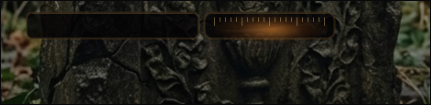
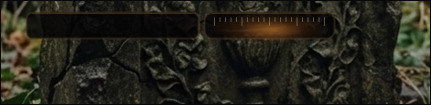
Ship the matching wallpaper, and show the pair in use
A skin can never be cut to the shape of its artwork - the window is always a
rectangle and alpha composites to white. The way round it is not technical: make
the ground around the stone match the desktop behind it, and the rectangle stops
being visible. The wallpaper that does that now ships beside the skin, and the
screenshot is the two of them together rather than the window on its own.

The skin is regraded from 0.28 to 0.15 to sit against that wallpaper, which is
the value the pairing was tuned at. On a different desktop -PhotoNight retunes
it, and the readme says so.

Both images came from the same source and the credit now covers both.

diff --git a/README.md b/README.md
@@ -82,6 +82,14 @@ the controls over a photographic render, which is the only skin in this repo
 whose background is not drawn by a script — see the credits for where the image
 came from. Pick whichever you prefer; both are complete.
 
+**A matching wallpaper ships with the photo skin**, in `Skins\source\`. Set it
+as your desktop and the graveyard in the window carries on into the graveyard
+behind it, which is the closest this format will ever get to a shaped window —
+a skin can never be cut to the outline of its artwork (see the format notes), so
+the next best thing is a ground that does not want hiding. The screenshot below
+is the pair in use. The skin is graded to sit against that wallpaper; if you use
+a different desktop, `-PhotoNight` is the dial.
+
 ![Radiation King Cabinet](screenshot-cabinet.png)
 
 ![Radiation King Deluxe](screenshot-deluxe.png)
@@ -251,8 +259,9 @@ connection. No installs, no modules, no dependencies.
   files. **Hallows Eve Photo** is the exception: its background is a photographic
   render, and the source image ships in `Skins\source\` so the skin can be
   rebuilt.
-- **The headstone photograph** in Hallows Eve Photo was generated with
-  **Nano Banana**, Google's image model, from text prompts written by the author.
+- **The headstone photograph** in Hallows Eve Photo, and the matching wallpaper
+  beside it, were both generated with **Nano Banana**, Google's image model, from
+  text prompts written by the author.
   It is not a photograph of a real grave, not stock imagery, and not anyone
   else's work — the image was rendered to order for this skin, and the prompt
   behind it is the author's own. The name and dates carved into it are invented.
